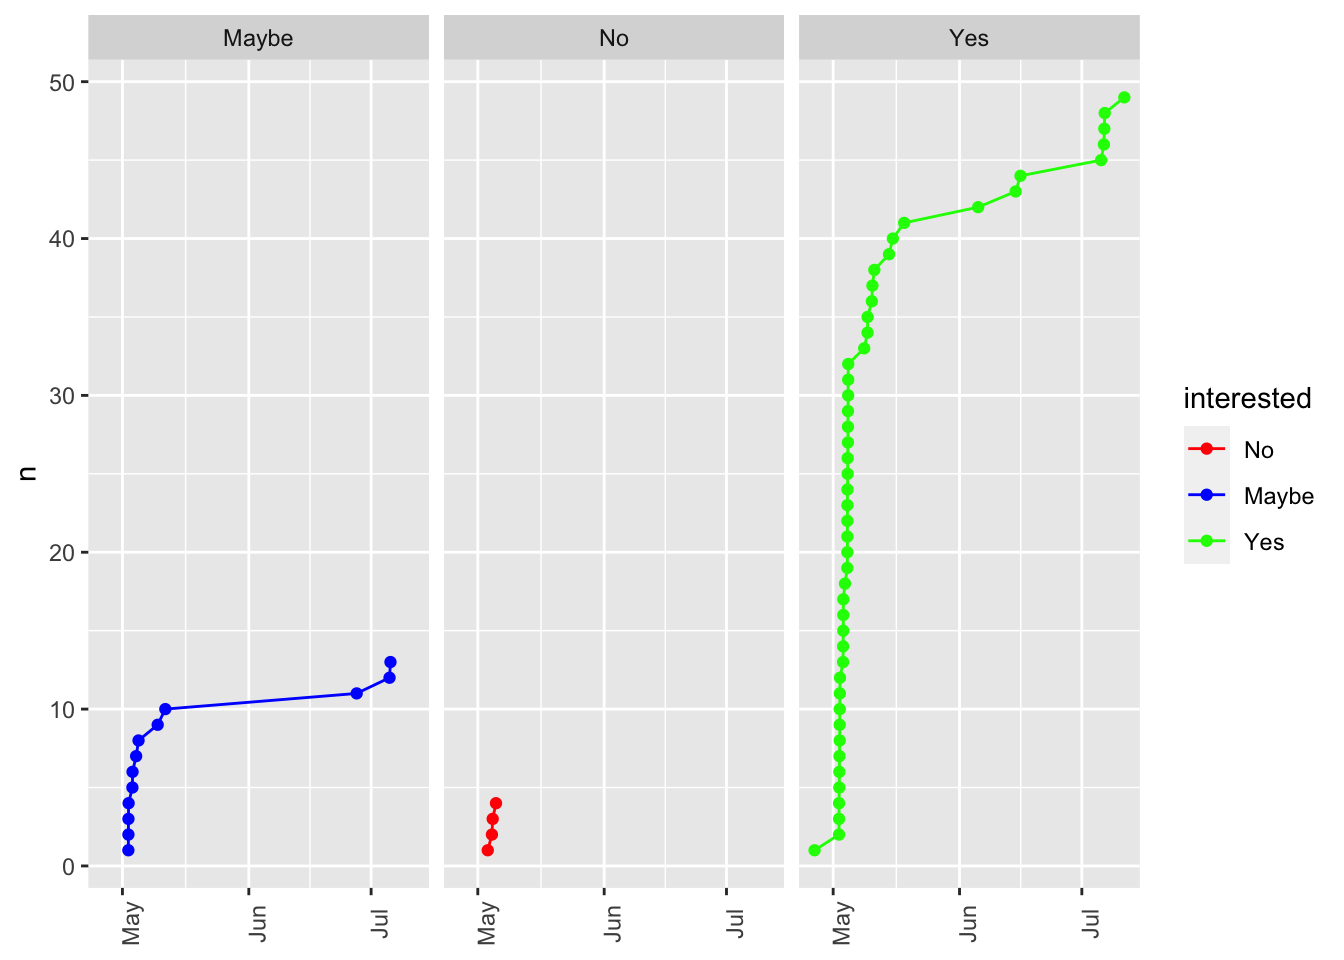
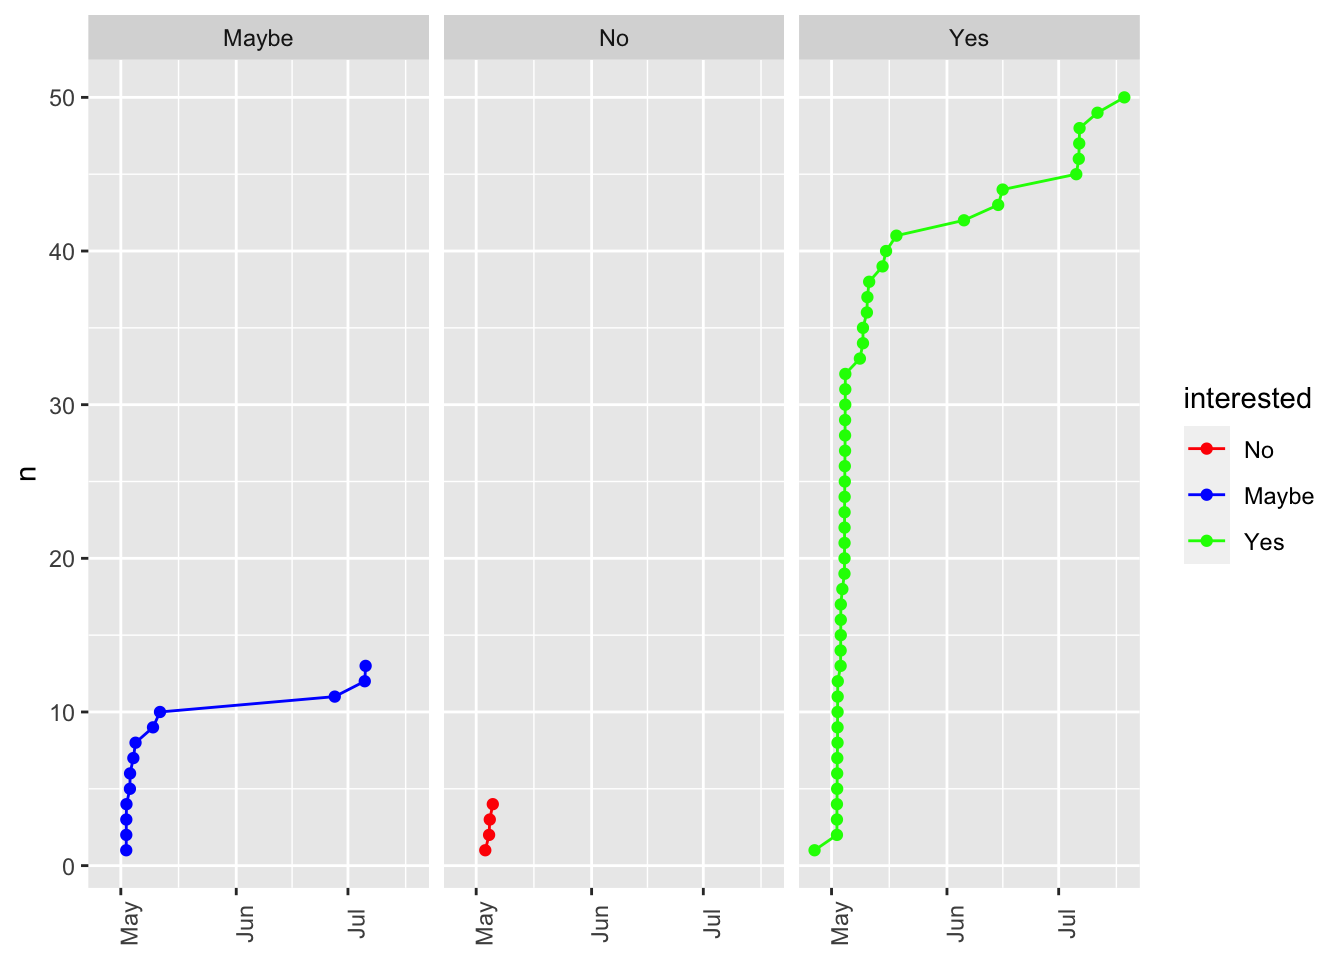
Add links to some talks; add brief descriptions; update registration survey data & viz.

diff --git a/docs/presentation-topics.html b/docs/presentation-topics.html
@@ -6,15 +6,15 @@
 <meta name="viewport" content="width=device-width, initial-scale=1, shrink-to-fit=no">
 <title>Presentation topics | Open Science Bootcamp 2023</title>
 <meta name="author" content="The 2023 Bootcamp Program Planning Committee">
-<meta name="description" content="The following are potential presentation topics for Day 1 and Day 2. The hands-on topics offered have been shaped by the preferences of prospective participants, as indicated in a May 2023 survey....">
+<meta name="description" content="The following are presentation topics for Day 1 and Day 2. The hands-on topics offered have been shaped by the preferences of prospective participants, as indicated in a May 2023 survey. Theme:...">
 <meta name="generator" content="bookdown 0.34 with bs4_book()">
 <meta property="og:title" content="Presentation topics | Open Science Bootcamp 2023">
 <meta property="og:type" content="book">
 <meta property="og:url" content="https://penn-state-open-science.github.io/bootcamp-2023/presentation-topics.html">
-<meta property="og:description" content="The following are potential presentation topics for Day 1 and Day 2. The hands-on topics offered have been shaped by the preferences of prospective participants, as indicated in a May 2023 survey....">
+<meta property="og:description" content="The following are presentation topics for Day 1 and Day 2. The hands-on topics offered have been shaped by the preferences of prospective participants, as indicated in a May 2023 survey. Theme:...">
 <meta name="twitter:card" content="summary">
 <meta name="twitter:title" content="Presentation topics | Open Science Bootcamp 2023">
-<meta name="twitter:description" content="The following are potential presentation topics for Day 1 and Day 2. The hands-on topics offered have been shaped by the preferences of prospective participants, as indicated in a May 2023 survey....">
+<meta name="twitter:description" content="The following are presentation topics for Day 1 and Day 2. The hands-on topics offered have been shaped by the preferences of prospective participants, as indicated in a May 2023 survey. Theme:...">
 <!-- JS --><script src="https://cdnjs.cloudflare.com/ajax/libs/clipboard.js/2.0.6/clipboard.min.js" integrity="sha256-inc5kl9MA1hkeYUt+EC3BhlIgyp/2jDIyBLS6k3UxPI=" crossorigin="anonymous"></script><script src="https://cdnjs.cloudflare.com/ajax/libs/fuse.js/6.4.6/fuse.js" integrity="sha512-zv6Ywkjyktsohkbp9bb45V6tEMoWhzFzXis+LrMehmJZZSys19Yxf1dopHx7WzIKxr5tK2dVcYmaCk2uqdjF4A==" crossorigin="anonymous"></script><script src="https://kit.fontawesome.com/6ecbd6c532.js" crossorigin="anonymous"></script><script src="libs/jquery-3.6.0/jquery-3.6.0.min.js"></script><meta name="viewport" content="width=device-width, initial-scale=1, shrink-to-fit=no">
 <link href="libs/bootstrap-4.6.0/bootstrap.min.css" rel="stylesheet">
 <script src="libs/bootstrap-4.6.0/bootstrap.bundle.min.js"></script><script src="libs/bs3compat-0.4.2/transition.js"></script><script src="libs/bs3compat-0.4.2/tabs.js"></script><script src="libs/bs3compat-0.4.2/bs3compat.js"></script><link href="libs/bs4_book-1.0.0/bs4_book.css" rel="stylesheet">
@@ -91,7 +91,7 @@
   </header><main class="col-sm-12 col-md-9 col-lg-7" id="content"><div id="presentation-topics" class="section level1 unnumbered">
 <h1>Presentation topics<a class="anchor" aria-label="anchor" href="#presentation-topics"><i class="fas fa-link"></i></a>
 </h1>
-<p>The following are potential presentation topics for <a href="day_1.html#day_1">Day 1</a> and <a href="day_2.html#day_2">Day 2</a>.</p>
+<p>The following are presentation topics for <a href="day_1.html#day_1">Day 1</a> and <a href="day_2.html#day_2">Day 2</a>.</p>
 <p>The hands-on topics offered have been shaped by the preferences of prospective participants, as indicated in a May 2023 <a href="attendee-surveys.html#results">survey</a>.</p>
 <div id="theme-what-is-open-science-open-science-psu" class="section level2 unnumbered">
 <h2>Theme: What is open science? Open science @ PSU<a class="anchor" aria-label="anchor" href="#theme-what-is-open-science-open-science-psu"><i class="fas fa-link"></i></a>
@@ -99,11 +99,15 @@
 <div id="what-is-open-science-why-do-open-science-rick-gilmore" class="section level3 unnumbered">
 <h3>What is open science? Why do open science? (<a href="program-planning-committee.html#rick-gilmore">Rick Gilmore</a>)<a class="anchor" aria-label="anchor" href="#what-is-open-science-why-do-open-science-rick-gilmore"><i class="fas fa-link"></i></a>
 </h3>
-<!-- These are some possible presentations for [Day 1](#day_1). -->
+<p>This talk will describe the main practices and principles of open science and describe
+how these practices and principles can strengthen and enrich the scholarship of researchers at every
+career stage.</p>
+<p><em>Talk slides</em>: <a href="https://penn-state-open-science.github.io/bootcamp-2023-open-sci-what-why/">HTML</a></p>
 </div>
 <div id="open-science-psu" class="section level3 unnumbered">
 <h3>Open science @ PSU<a class="anchor" aria-label="anchor" href="#open-science-psu"><i class="fas fa-link"></i></a>
 </h3>
+<p>What initiatives and resources are available at Penn State related to open science?</p>
 <!-- Short (3-5 min) "blitz"-style talks about open science-related initiatives at Penn State. -->
 <!-- - Case study: Reproducibility in neuroimaging ([Frank Hillary]? & [Nicole Lazar]?) -->
 <!-- - Case study: ScholarSphere ([Briana Wham]? or [Jennifer Valcin]?) -->
@@ -162,6 +166,7 @@ These tools can be used to analysis reports, create slides, papers, and web site
 <p><em>Skill level</em>: Novice</p>
 <p><em>Time required</em>: 50 min</p>
 <p><em>Offered</em>: <a href="day_2.html#day_2_am_session_2">Thu AM Session 2</a>.</p>
+<p><em>Talk slides</em>: <a href="https://penn-state-open-science.github.io/bootcamp-2023-rmarkdown-quarto/">HTML</a></p>
 </div>
 <div id="howto_data_management_policies" class="section level3 unnumbered">
 <h3>Data management: Policies (<a href="program-planning-committee.html#briana-wham">Briana Wham</a> &amp; <a href="program-planning-committee.html#alaina-pearce">Alaina Pearce</a>)<a class="anchor" aria-label="anchor" href="#howto_data_management_policies"><i class="fas fa-link"></i></a>
@@ -284,7 +289,7 @@ results and figures can be verified.</p>
 <footer class="bg-primary text-light mt-5"><div class="container"><div class="row">
 
   <div class="col-12 col-md-6 mt-3">
-    <p>"<strong>Open Science Bootcamp 2023</strong>" was written by The 2023 Bootcamp Program Planning Committee. It was last built on 2023-07-17.</p>
+    <p>"<strong>Open Science Bootcamp 2023</strong>" was written by The 2023 Bootcamp Program Planning Committee. It was last built on 2023-07-19.</p>
   </div>
 
   <div class="col-12 col-md-6 mt-3">

diff --git a/docs/attendee-surveys.html b/docs/attendee-surveys.html
@@ -6,15 +6,15 @@
 <meta name="viewport" content="width=device-width, initial-scale=1, shrink-to-fit=no">
 <title>Attendee surveys | Open Science Bootcamp 2023</title>
 <meta name="author" content="The 2023 Bootcamp Program Planning Committee">
-<meta name="description" content="This page summarizes the data collected from prospective and actual Bootcamp attendees.   Registration - July 24, 2023 Render date: 2023-07-17 15:20:52.973016 Survey link:...">
+<meta name="description" content="This page summarizes the data collected from prospective and actual Bootcamp attendees.   Registration - July 24, 2023 Render date: 2023-07-19 07:51:41.766687 Survey link:...">
 <meta name="generator" content="bookdown 0.34 with bs4_book()">
 <meta property="og:title" content="Attendee surveys | Open Science Bootcamp 2023">
 <meta property="og:type" content="book">
 <meta property="og:url" content="https://penn-state-open-science.github.io/bootcamp-2023/attendee-surveys.html">
-<meta property="og:description" content="This page summarizes the data collected from prospective and actual Bootcamp attendees.   Registration - July 24, 2023 Render date: 2023-07-17 15:20:52.973016 Survey link:...">
+<meta property="og:description" content="This page summarizes the data collected from prospective and actual Bootcamp attendees.   Registration - July 24, 2023 Render date: 2023-07-19 07:51:41.766687 Survey link:...">
 <meta name="twitter:card" content="summary">
 <meta name="twitter:title" content="Attendee surveys | Open Science Bootcamp 2023">
-<meta name="twitter:description" content="This page summarizes the data collected from prospective and actual Bootcamp attendees.   Registration - July 24, 2023 Render date: 2023-07-17 15:20:52.973016 Survey link:...">
+<meta name="twitter:description" content="This page summarizes the data collected from prospective and actual Bootcamp attendees.   Registration - July 24, 2023 Render date: 2023-07-19 07:51:41.766687 Survey link:...">
 <!-- JS --><script src="https://cdnjs.cloudflare.com/ajax/libs/clipboard.js/2.0.6/clipboard.min.js" integrity="sha256-inc5kl9MA1hkeYUt+EC3BhlIgyp/2jDIyBLS6k3UxPI=" crossorigin="anonymous"></script><script src="https://cdnjs.cloudflare.com/ajax/libs/fuse.js/6.4.6/fuse.js" integrity="sha512-zv6Ywkjyktsohkbp9bb45V6tEMoWhzFzXis+LrMehmJZZSys19Yxf1dopHx7WzIKxr5tK2dVcYmaCk2uqdjF4A==" crossorigin="anonymous"></script><script src="https://kit.fontawesome.com/6ecbd6c532.js" crossorigin="anonymous"></script><script src="libs/jquery-3.6.0/jquery-3.6.0.min.js"></script><meta name="viewport" content="width=device-width, initial-scale=1, shrink-to-fit=no">
 <link href="libs/bootstrap-4.6.0/bootstrap.min.css" rel="stylesheet">
 <script src="libs/bootstrap-4.6.0/bootstrap.bundle.min.js"></script><script src="libs/bs3compat-0.4.2/transition.js"></script><script src="libs/bs3compat-0.4.2/tabs.js"></script><script src="libs/bs3compat-0.4.2/bs3compat.js"></script><link href="libs/bs4_book-1.0.0/bs4_book.css" rel="stylesheet">
@@ -98,7 +98,7 @@
 <div id="registration---july-24-2023" class="section level2 unnumbered">
 <h2>Registration - July 24, 2023<a class="anchor" aria-label="anchor" href="#registration---july-24-2023"><i class="fas fa-link"></i></a>
 </h2>
-<p>Render date: 2023-07-17 15:20:52.973016</p>
+<p>Render date: 2023-07-19 07:51:41.766687</p>
 <p>Survey link: <a href="https://forms.gle/wPBr9XgXmmzhSszm7" class="uri">https://forms.gle/wPBr9XgXmmzhSszm7</a></p>
 <iframe src="https://docs.google.com/forms/d/e/1FAIpQLScdIbP8TZrulVC01MQbtQN13iaW1WIjQx86f-wGOpC0F3bxBg/viewform?embedded=true" width="640" height="2489" frameborder="0" marginheight="0" marginwidth="0">
 Loading…
@@ -114,18 +114,14 @@ Loading…
 <pre><code>## • 'csv/registrations-2023-07.csv'</code></pre>
 <p>Clean.</p>
 <pre><code>## New names:
-## • `Which of these sessions do you plan to attend?`
-##   -&gt; `Which of these sessions do you plan to
-##   attend?...8`
-## • `Which of these sessions do you plan to attend?`
-##   -&gt; `Which of these sessions do you plan to
-##   attend?...9`
-## • `Which of these sessions do you plan to attend?`
-##   -&gt; `Which of these sessions do you plan to
-##   attend?...10`
-## • `Which of these sessions do you plan to attend?`
-##   -&gt; `Which of these sessions do you plan to
-##   attend?...11`</code></pre>
+## • `Which of these sessions do you plan to attend?` -&gt; `Which of these sessions do you plan
+##   to attend?...8`
+## • `Which of these sessions do you plan to attend?` -&gt; `Which of these sessions do you plan
+##   to attend?...9`
+## • `Which of these sessions do you plan to attend?` -&gt; `Which of these sessions do you plan
+##   to attend?...10`
+## • `Which of these sessions do you plan to attend?` -&gt; `Which of these sessions do you plan
+##   to attend?...11`</code></pre>
 <p>Visualize.</p>
 <div class="figure" style="text-align: center">
 <span style="display:block;" id="fig:registrations-timeseries"></span>
@@ -188,7 +184,7 @@ no
 <div id="interest---may-1-2023" class="section level2 unnumbered">
 <h2>Interest - May 1, 2023<a class="anchor" aria-label="anchor" href="#interest---may-1-2023"><i class="fas fa-link"></i></a>
 </h2>
-<p>Render date: 2023-07-17 15:20:54.780124</p>
+<p>Render date: 2023-07-19 07:51:43.736465</p>
 <p>Survey link: <a href="https://docs.google.com/forms/d/e/1FAIpQLSf_hIVQz3CoDq2bzjTNExw-Hn6uXLAf8ri4v8k5lRkifclxsQ/viewform?usp=sf_link" class="uri">https://docs.google.com/forms/d/e/1FAIpQLSf_hIVQz3CoDq2bzjTNExw-Hn6uXLAf8ri4v8k5lRkifclxsQ/viewform?usp=sf_link</a></p>
 <iframe src="https://docs.google.com/forms/d/e/1FAIpQLSf_hIVQz3CoDq2bzjTNExw-Hn6uXLAf8ri4v8k5lRkifclxsQ/viewform?embedded=true" width="640" height="1321" frameborder="0" marginheight="0" marginwidth="0">
 Loading…
@@ -318,7 +314,7 @@ OMG! I love all these options/topics! Thank you so so much!!!!
 <footer class="bg-primary text-light mt-5"><div class="container"><div class="row">
 
   <div class="col-12 col-md-6 mt-3">
-    <p>"<strong>Open Science Bootcamp 2023</strong>" was written by The 2023 Bootcamp Program Planning Committee. It was last built on 2023-07-17.</p>
+    <p>"<strong>Open Science Bootcamp 2023</strong>" was written by The 2023 Bootcamp Program Planning Committee. It was last built on 2023-07-19.</p>
   </div>
 
   <div class="col-12 col-md-6 mt-3">

diff --git a/docs/index.html b/docs/index.html
@@ -133,13 +133,13 @@ The Marriott Foundation Building is located just north of the Nittany Lion Inn, 
 <h4>Marriott Foundation Building<a class="anchor" aria-label="anchor" href="#marriott-fdn-bldg"><i class="fas fa-link"></i></a>
 </h4>
 <div class="figure" style="text-align: center">
-<span style="display:block;" id="fig:unnamed-chunk-2"></span>
+<span style="display:block;" id="fig:unnamed-chunk-7"></span>
 <img src="https://psu-gatsby-files-prod.s3.amazonaws.com/s3fs-public/styles/4_3_2000w/public/Oak%20Building.jpeg?h=71976bb4&amp;itok=AOCn0pbO" alt="Marriott Foundation Building" width="100%"><p class="caption">
 Figure 1: Marriott Foundation Building
 </p>
 </div>
 <div class="figure" style="text-align: center">
-<span style="display:block;" id="fig:unnamed-chunk-3"></span>
+<span style="display:block;" id="fig:unnamed-chunk-8"></span>
 <iframe src="https://www.map.psu.edu/?id=1134#!ct/59509,33177,25403,26748,26749,26750,27255?m/336393?s/" width="100%" height="400px" data-external="1">
 </iframe>
 <p class="caption">
@@ -151,7 +151,7 @@ Smaller breakout sessions will be held in 109 Marriott Foundation Building and i
 Accessible restrooms are available on the first floor.
 Participants not requiring access to the accessible restrooms are asked to use facilities in the basement.</p>
 <div class="figure" style="text-align: center">
-<span style="display:block;" id="fig:unnamed-chunk-4"></span>
+<span style="display:block;" id="fig:unnamed-chunk-9"></span>
 <img src="include/img/mariott-fdn-bldg-1st-fl.png" alt="Marriott Foundation Building 1st Floor" width="100%"><p class="caption">
 Figure 3: Marriott Foundation Building 1st Floor
 </p>
@@ -163,13 +163,13 @@ Figure 3: Marriott Foundation Building 1st Floor
 </h4>
 <p>Some breakout sessions may be held in 115 Keller Building on <a href="day_2.html#day_2">Thursday, August 10</a> and <a href="day_3.html#day_3">Friday, August 11</a>.</p>
 <div class="figure" style="text-align: center">
-<span style="display:block;" id="fig:unnamed-chunk-5"></span>
+<span style="display:block;" id="fig:unnamed-chunk-10"></span>
 <img src="https://la.psu.edu/wp-content/uploads/sites/2/2022/11/Keller-Building-April-2022-01.jpg" alt="Keller Building" width="100%"><p class="caption">
 Figure 4: Keller Building
 </p>
 </div>
 <div class="figure" style="text-align: center">
-<span style="display:block;" id="fig:unnamed-chunk-6"></span>
+<span style="display:block;" id="fig:unnamed-chunk-11"></span>
 <iframe src="https://map.psu.edu/?id=1134#!m/272192?s/" width="100%" height="400px" data-external="1">
 </iframe>
 <p class="caption">
@@ -235,7 +235,7 @@ Figure 5: Keller Building location from <a href="https://www.map.psu.edu" class=
 <footer class="bg-primary text-light mt-5"><div class="container"><div class="row">
 
   <div class="col-12 col-md-6 mt-3">
-    <p>"<strong>Open Science Bootcamp 2023</strong>" was written by The 2023 Bootcamp Program Planning Committee. It was last built on 2023-07-17.</p>
+    <p>"<strong>Open Science Bootcamp 2023</strong>" was written by The 2023 Bootcamp Program Planning Committee. It was last built on 2023-07-19.</p>
   </div>
 
   <div class="col-12 col-md-6 mt-3">

diff --git a/docs/day_3.html b/docs/day_3.html
@@ -113,9 +113,12 @@
 <h3>09:15 am • Break-out discussions on next steps:<a class="anchor" aria-label="anchor" href="#am-break-out-discussions-on-next-steps"><i class="fas fa-link"></i></a>
 </h3>
 <ul>
-<li>Last names A-H: 109 <a href="index.html#marriott-fdn-bldg">Marriott Fdn Bldg</a>, Facilitator: [Briana Wham?]</li>
-<li>Last names I-R: Library <a href="index.html#marriott-fdn-bldg">Marriott Fdn Bldg</a>, Facilitator: [Frank Hillary?]</li>
-<li>Last names S-Z: 102 <a href="index.html#keller-bldg">Marriott Fdn Bldg</a>, Facilitator: [Alaina Pearce?]</li>
+<li>Last names A-H: 109 <a href="index.html#marriott-fdn-bldg">Marriott Fdn Bldg</a>, Facilitator: <a href="program-planning-committee.html#briana-wham">Briana Wham</a>
+</li>
+<li>Last names I-R: Library <a href="index.html#marriott-fdn-bldg">Marriott Fdn Bldg</a>, Facilitator: <a href="program-planning-committee.html#frank-hillary">Frank Hillary</a>
+</li>
+<li>Last names S-Z: 102 <a href="index.html#keller-bldg">Marriott Fdn Bldg</a>, Facilitator: <a href="program-planning-committee.html#alaina-pearce">Alaina Pearce</a>
+</li>
 </ul>
 </div>
 <div id="am-break-1" class="section level3 unnumbered">
@@ -175,7 +178,7 @@
 <footer class="bg-primary text-light mt-5"><div class="container"><div class="row">
 
   <div class="col-12 col-md-6 mt-3">
-    <p>"<strong>Open Science Bootcamp 2023</strong>" was written by The 2023 Bootcamp Program Planning Committee. It was last built on 2023-07-17.</p>
+    <p>"<strong>Open Science Bootcamp 2023</strong>" was written by The 2023 Bootcamp Program Planning Committee. It was last built on 2023-07-19.</p>
   </div>
 
   <div class="col-12 col-md-6 mt-3">

diff --git a/docs/references.html b/docs/references.html
@@ -129,7 +129,7 @@ Wilson, G., Bryan, J., Cranston, K., Kitzes, J., Nederbragt, L., &amp; Teal, T. 
 <footer class="bg-primary text-light mt-5"><div class="container"><div class="row">
 
   <div class="col-12 col-md-6 mt-3">
-    <p>"<strong>Open Science Bootcamp 2023</strong>" was written by The 2023 Bootcamp Program Planning Committee. It was last built on 2023-07-17.</p>
+    <p>"<strong>Open Science Bootcamp 2023</strong>" was written by The 2023 Bootcamp Program Planning Committee. It was last built on 2023-07-19.</p>
   </div>
 
   <div class="col-12 col-md-6 mt-3">

diff --git a/docs/this-site.html b/docs/this-site.html
@@ -199,7 +199,7 @@ In our case, the URL is <a href="https://penn-state-open-science.github.io/bootc
 <footer class="bg-primary text-light mt-5"><div class="container"><div class="row">
 
   <div class="col-12 col-md-6 mt-3">
-    <p>"<strong>Open Science Bootcamp 2023</strong>" was written by The 2023 Bootcamp Program Planning Committee. It was last built on 2023-07-17.</p>
+    <p>"<strong>Open Science Bootcamp 2023</strong>" was written by The 2023 Bootcamp Program Planning Committee. It was last built on 2023-07-19.</p>
   </div>
 
   <div class="col-12 col-md-6 mt-3">

diff --git a/docs/404.html b/docs/404.html
@@ -107,7 +107,7 @@ the table of contents to find the page you are looking for.</p>
 <footer class="bg-primary text-light mt-5"><div class="container"><div class="row">
 
   <div class="col-12 col-md-6 mt-3">
-    <p>"<strong>Open Science Bootcamp 2023</strong>" was written by The 2023 Bootcamp Program Planning Committee. It was last built on 2023-07-17.</p>
+    <p>"<strong>Open Science Bootcamp 2023</strong>" was written by The 2023 Bootcamp Program Planning Committee. It was last built on 2023-07-19.</p>
   </div>
 
   <div class="col-12 col-md-6 mt-3">

diff --git a/docs/day_2.html b/docs/day_2.html
@@ -280,7 +280,7 @@ Locations be announced soon.</p>
 <footer class="bg-primary text-light mt-5"><div class="container"><div class="row">
 
   <div class="col-12 col-md-6 mt-3">
-    <p>"<strong>Open Science Bootcamp 2023</strong>" was written by The 2023 Bootcamp Program Planning Committee. It was last built on 2023-07-17.</p>
+    <p>"<strong>Open Science Bootcamp 2023</strong>" was written by The 2023 Bootcamp Program Planning Committee. It was last built on 2023-07-19.</p>
   </div>
 
   <div class="col-12 col-md-6 mt-3">

diff --git a/docs/day_1.html b/docs/day_1.html
@@ -213,7 +213,7 @@
 <footer class="bg-primary text-light mt-5"><div class="container"><div class="row">
 
   <div class="col-12 col-md-6 mt-3">
-    <p>"<strong>Open Science Bootcamp 2023</strong>" was written by The 2023 Bootcamp Program Planning Committee. It was last built on 2023-07-17.</p>
+    <p>"<strong>Open Science Bootcamp 2023</strong>" was written by The 2023 Bootcamp Program Planning Committee. It was last built on 2023-07-19.</p>
   </div>
 
   <div class="col-12 col-md-6 mt-3">

diff --git a/docs/presenters.html b/docs/presenters.html
@@ -142,7 +142,7 @@
 <footer class="bg-primary text-light mt-5"><div class="container"><div class="row">
 
   <div class="col-12 col-md-6 mt-3">
-    <p>"<strong>Open Science Bootcamp 2023</strong>" was written by The 2023 Bootcamp Program Planning Committee. It was last built on 2023-07-17.</p>
+    <p>"<strong>Open Science Bootcamp 2023</strong>" was written by The 2023 Bootcamp Program Planning Committee. It was last built on 2023-07-19.</p>
   </div>
 
   <div class="col-12 col-md-6 mt-3">

diff --git a/docs/program-planning-committee.html b/docs/program-planning-committee.html
@@ -202,7 +202,7 @@
 <footer class="bg-primary text-light mt-5"><div class="container"><div class="row">
 
   <div class="col-12 col-md-6 mt-3">
-    <p>"<strong>Open Science Bootcamp 2023</strong>" was written by The 2023 Bootcamp Program Planning Committee. It was last built on 2023-07-17.</p>
+    <p>"<strong>Open Science Bootcamp 2023</strong>" was written by The 2023 Bootcamp Program Planning Committee. It was last built on 2023-07-19.</p>
   </div>
 
   <div class="col-12 col-md-6 mt-3">

diff --git a/docs/resources.html b/docs/resources.html
@@ -198,7 +198,7 @@
 <footer class="bg-primary text-light mt-5"><div class="container"><div class="row">
 
   <div class="col-12 col-md-6 mt-3">
-    <p>"<strong>Open Science Bootcamp 2023</strong>" was written by The 2023 Bootcamp Program Planning Committee. It was last built on 2023-07-17.</p>
+    <p>"<strong>Open Science Bootcamp 2023</strong>" was written by The 2023 Bootcamp Program Planning Committee. It was last built on 2023-07-19.</p>
   </div>
 
   <div class="col-12 col-md-6 mt-3">
